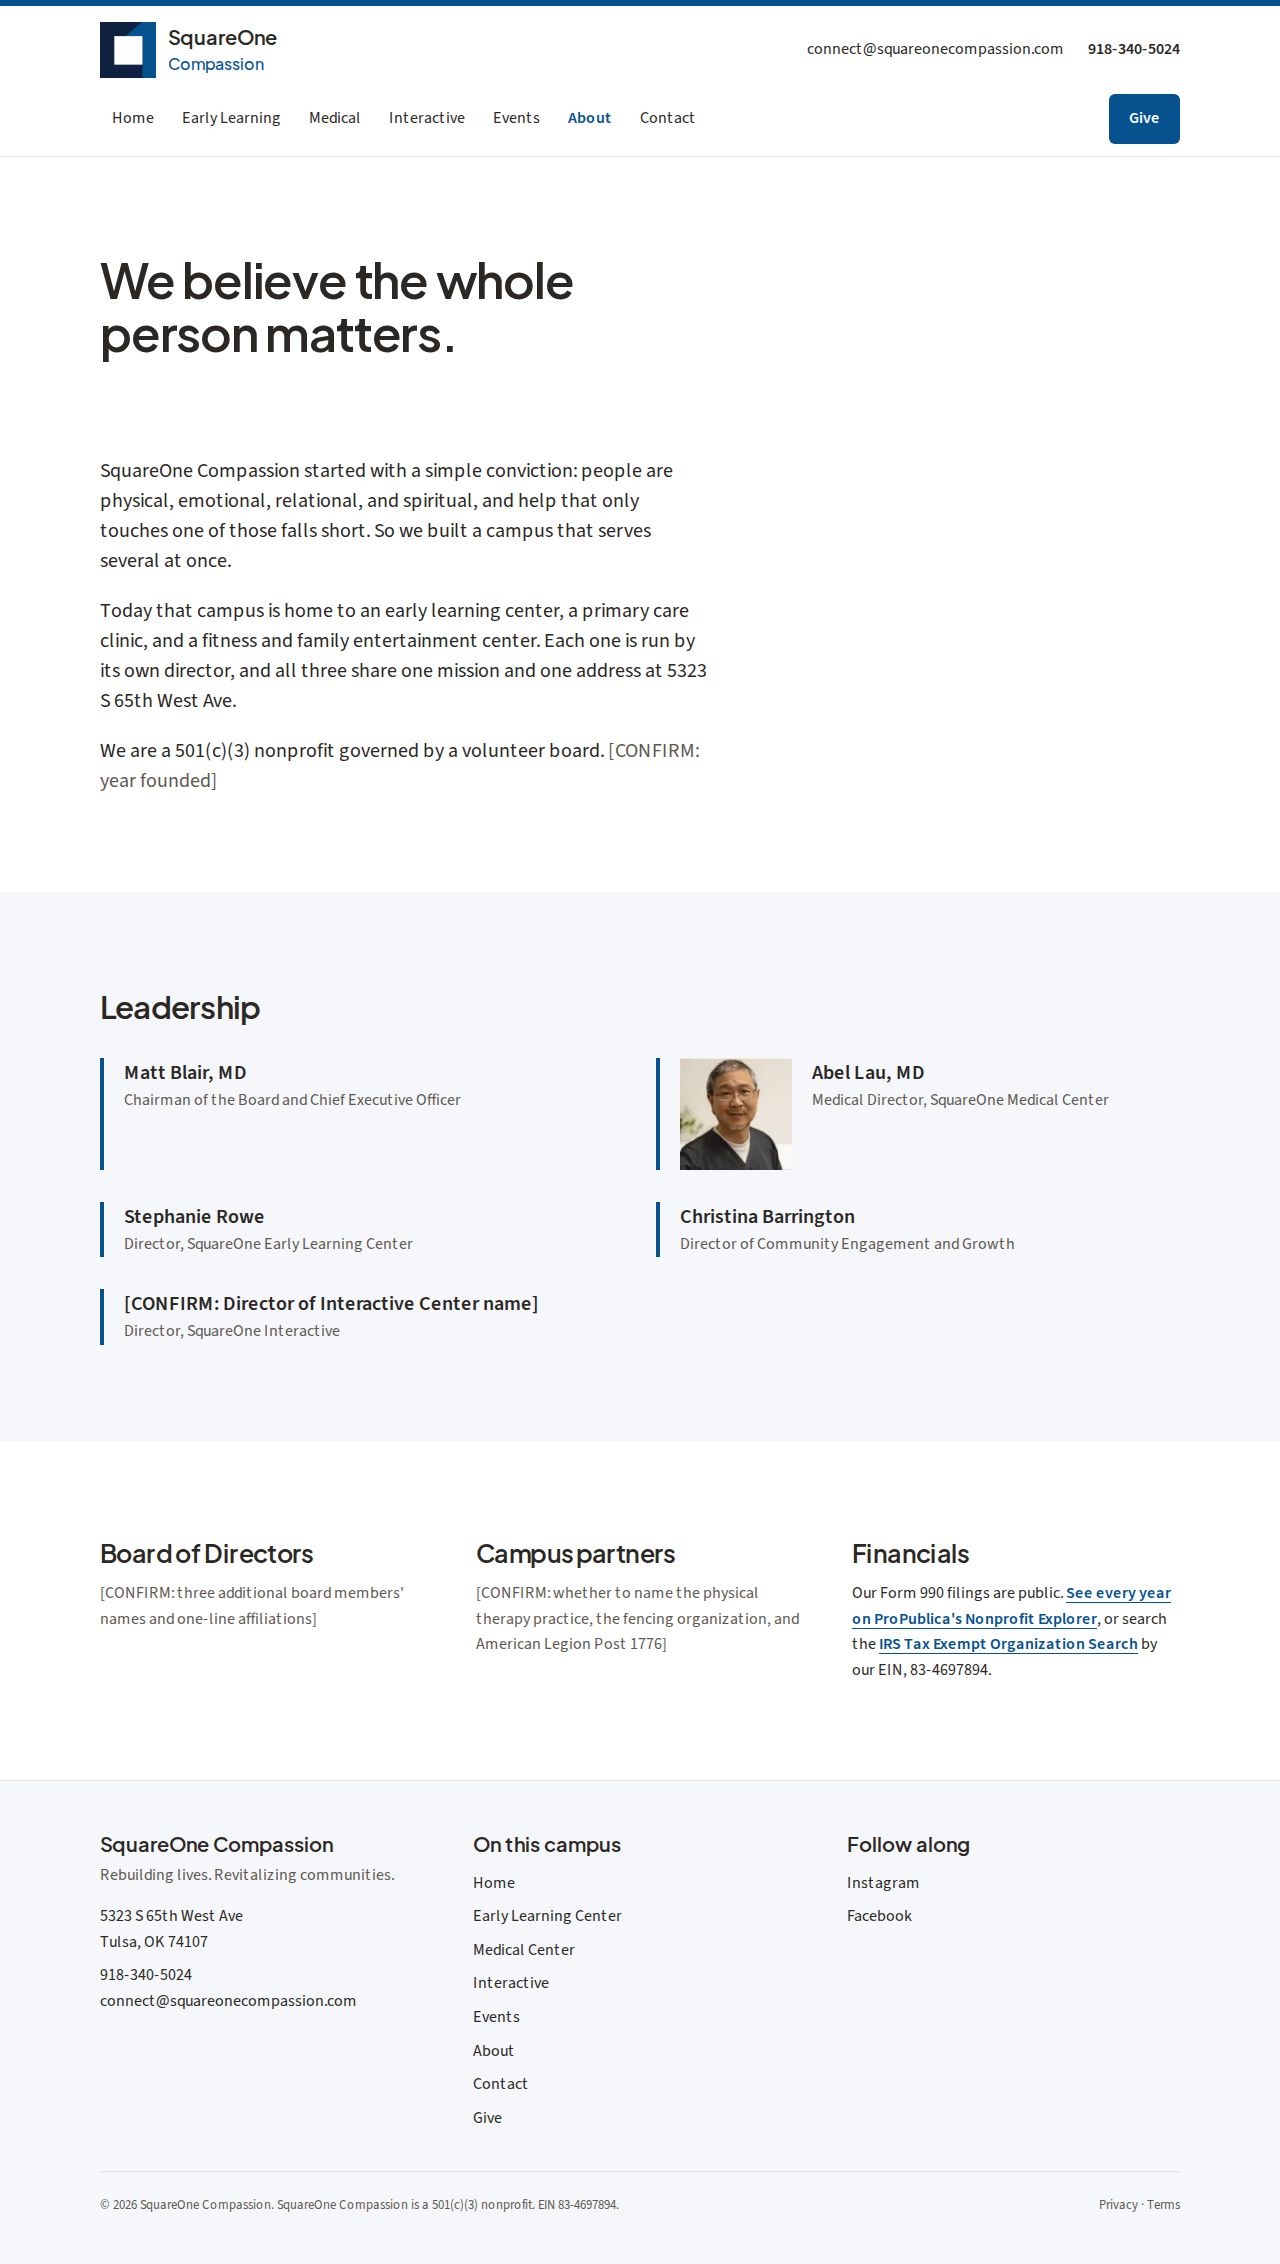
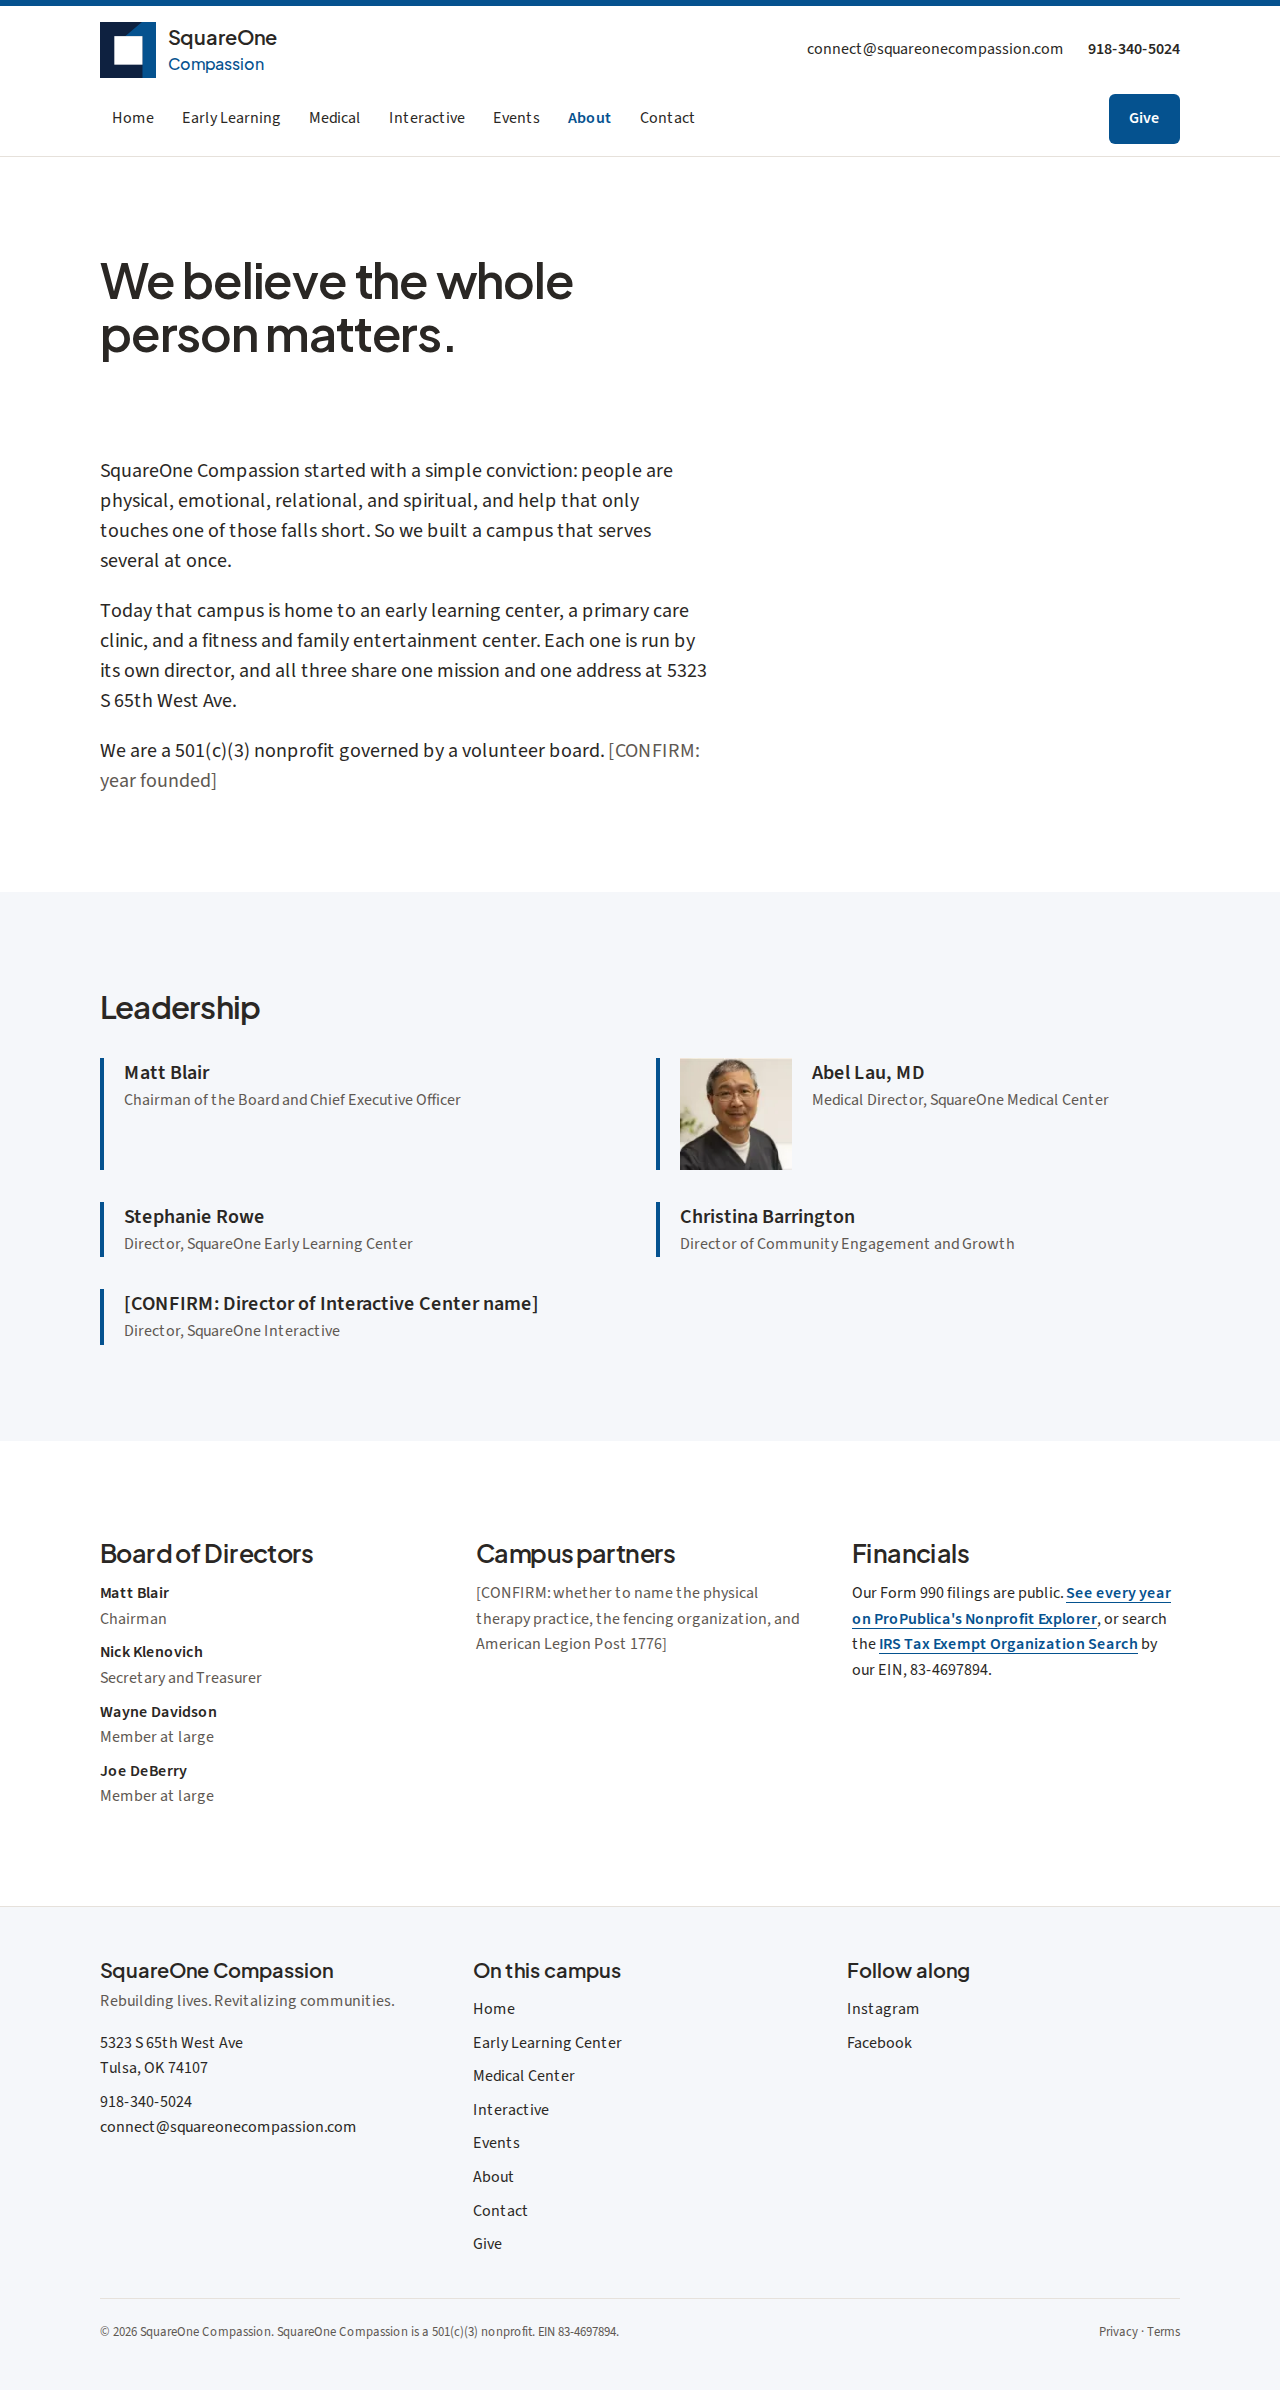
Remove MD from Matt Blair and list the Board of Directors
Claude-Session: https://claude.ai/code/session_01Dy1NBE1CDjARVuM4emY1ru

diff --git a/app/about/page.tsx b/app/about/page.tsx
@@ -5,6 +5,13 @@ import { Confirm } from '@/components/Confirm'
 import { photo } from '@/lib/photos'
 import { ORG } from '@/lib/site'
 
+const BOARD = [
+  { name: 'Matt Blair', role: 'Chairman' },
+  { name: 'Nick Klenovich', role: 'Secretary and Treasurer' },
+  { name: 'Wayne Davidson', role: 'Member at large' },
+  { name: 'Joe DeBerry', role: 'Member at large' },
+]
+
 export const metadata: Metadata = { title: 'About', description: 'SquareOne Compassion is a 501(c)(3) nonprofit campus in west Tulsa, home to an early learning center, a primary care clinic, and a fitness and family entertainment center.' }
 
 export default function AboutPage() {
@@ -28,7 +35,7 @@ export default function AboutPage() {
       <Section tint>
         <h2 className="text-2xl">Leadership</h2>
         <div className="mt-8 grid gap-8 md:grid-cols-2">
-          <StaffCard photo={photo('matt-blair')} name="Matt Blair, MD" role="Chairman of the Board and Chief Executive Officer" />
+          <StaffCard photo={photo('matt-blair')} name="Matt Blair" role="Chairman of the Board and Chief Executive Officer" />
           <StaffCard photo={photo('abel-lau')} name="Abel Lau, MD" role="Medical Director, SquareOne Medical Center" />
           <StaffCard photo={photo('stephanie-rowe')} name="Stephanie Rowe" role="Director, SquareOne Early Learning Center" />
           <StaffCard photo={photo('christina-barrington')} name="Christina Barrington" role="Director of Community Engagement and Growth" />
@@ -40,9 +47,15 @@ export default function AboutPage() {
         <div className="grid gap-12 md:grid-cols-3">
           <div>
             <h2 className="text-xl">Board of Directors</h2>
-            <p className="mt-3">
-              <Confirm>three additional board members&apos; names and one-line affiliations</Confirm>
-            </p>
+            <ul className="mt-3 space-y-2">
+              {BOARD.map((m) => (
+                <li key={m.name}>
+                  <span className="font-semibold text-ink">{m.name}</span>
+                  <br />
+                  <span className="text-muted">{m.role}</span>
+                </li>
+              ))}
+            </ul>
           </div>
           <div>
             <h2 className="text-xl">Campus partners</h2>

diff --git a/content/COPY.md b/content/COPY.md
@@ -74,14 +74,17 @@ Today that campus is home to an early learning center, a primary care clinic, an
 We are a 501(c)(3) nonprofit governed by a volunteer board. `[CONFIRM: year founded]`
 
 **Leadership**
-- Matt Blair, MD — Chairman of the Board and Chief Executive Officer
+- Matt Blair — Chairman of the Board and Chief Executive Officer
 - Abel Lau, MD — Medical Director, SquareOne Medical Center
 - Stephanie Rowe — Director, SquareOne Early Learning Center
 - Christina Barrington — Director of Community Engagement and Growth
 - `[CONFIRM: Director of Interactive Center name]`
 
 **Board of Directors**
-`[CONFIRM: three additional board members' names and one-line affiliations]`
+- Matt Blair, Chairman
+- Nick Klenovich, Secretary and Treasurer
+- Wayne Davidson, Member at large
+- Joe DeBerry, Member at large
 
 **Campus partners**
 `[CONFIRM: whether to name the physical therapy practice, the fencing organization, and American Legion Post 1776]`

diff --git a/CONFIRM.md b/CONFIRM.md
@@ -48,7 +48,7 @@ See `.env.example`. Without these:
 ### About
 - [ ] Year founded
 - [ ] Director of Interactive Center name
-- [ ] Three additional board members' names and one-line affiliations
+- [x] Board of Directors listed (Matt Blair, Nick Klenovich, Wayne Davidson, Joe DeBerry)
 - [ ] Whether to name campus partners (physical therapy practice, fencing organization, American Legion Post 1776)
 - [x] Financials block links to ProPublica's Nonprofit Explorer by EIN (lists every year automatically) and the IRS Tax Exempt Organization Search.
 
